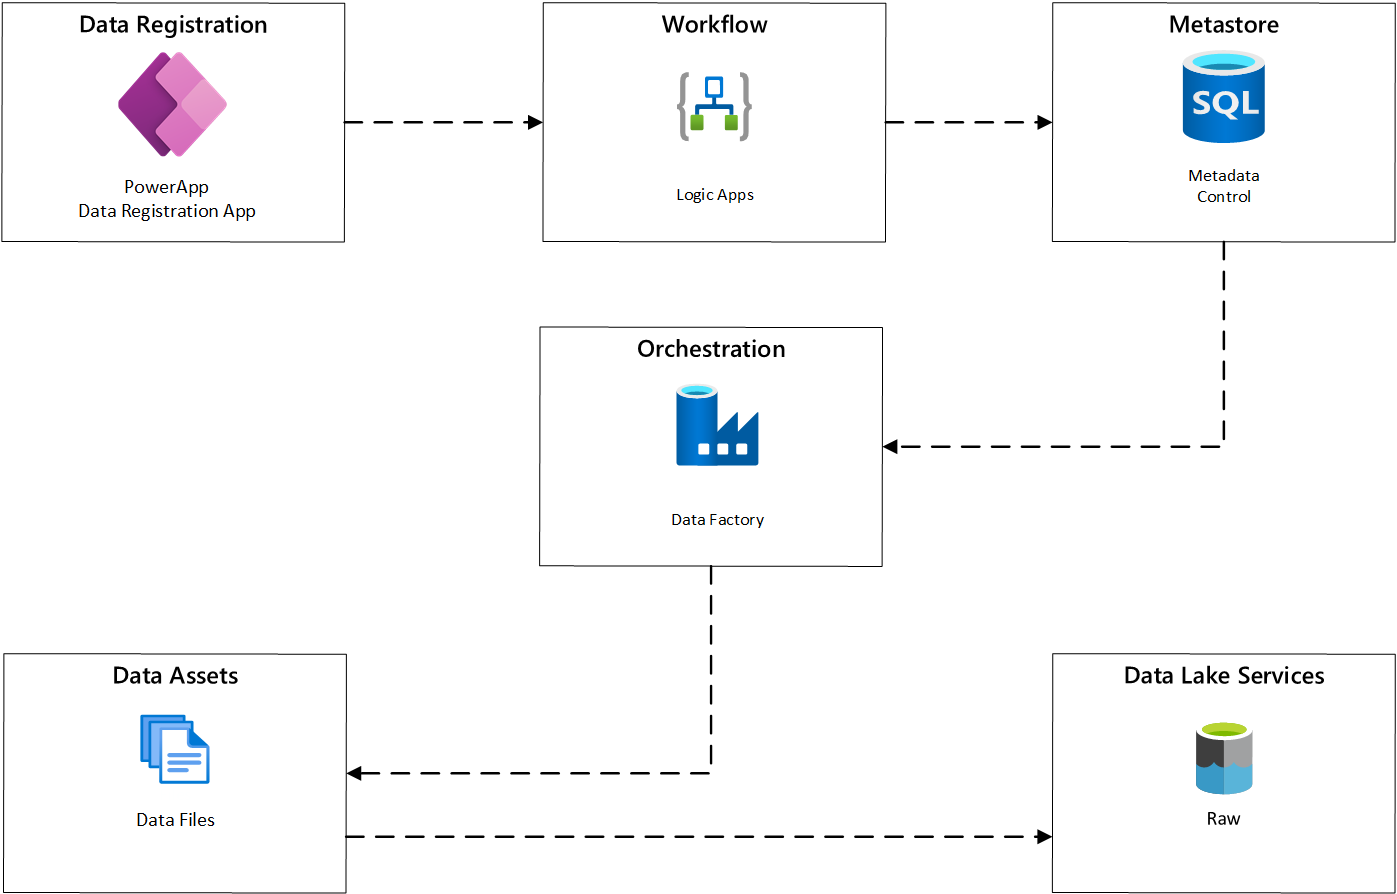
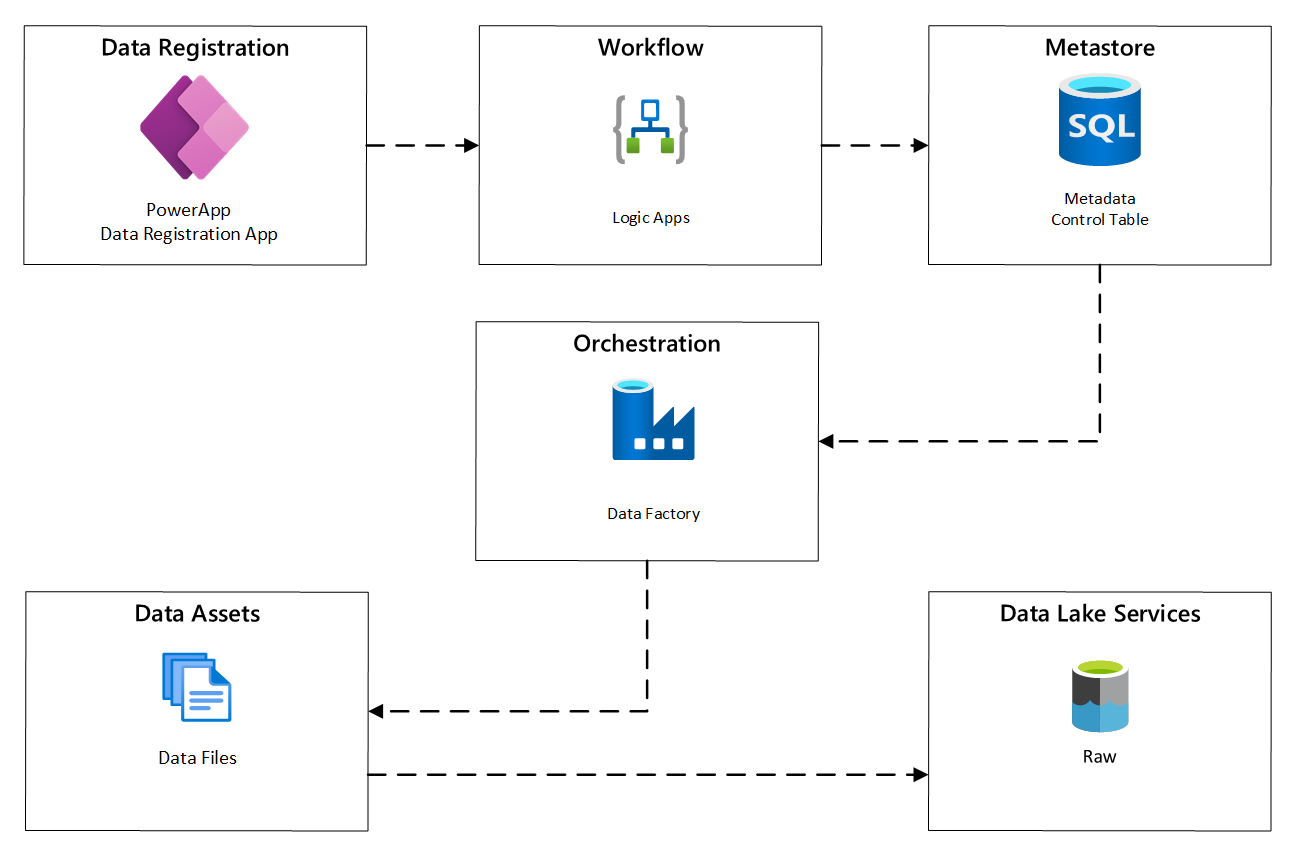
Updated page to include capabilities and example Azure service implementation

diff --git a/docs/scenarios/data-management/best-practices/automated-ingestion-pattern.md b/docs/scenarios/data-management/best-practices/automated-ingestion-pattern.md
@@ -21,26 +21,58 @@ This section discusses a design for how automated ingestion scenarios could be i
 Automated data ingestion scenarios are typically focused at enabling non-technical (that is, not Data Engineer) personas to publish data assets to a Data Lake so that further processing can occur. To implement this scenario requires onboarding capabilities enabling:
 
 - Data asset registration
-- Provisioning workflow
-- Metadata capture
-- Scheduling of orchestration / ingestion
+- Provisioning workflow / metadata capture
+- Scheduling of ingestion
 
 The interaction between the capabilities can be viewed as follows:
 
 ![Diagram of data registration capabilites interactions.](../images/registration-capabilities.png)
 
-The following illustrates how new data assets can be registered using a combination of Azure services:
+*Figure 1: Data registration capabilites interactions.*
+
+The following illustrates how this process can be implemented using a combination of Azure services:
 
 ![Diagram of an automated ingestion process.](../images/automated-ingestion-flow.png)
 
-[Metadata-driven copy tasks](/azure/data-factory/copy-data-tool-metadata-driven)
+*Figure 2: Automated ingestion process.*
 
-This information can be captured and written to a bespoke table within Dataverse
-The application can talk to an Azure Data Factory SQL Database metastore within each data landing zone to create new data sources and ingest them into data landing zones. Once ingestion requests are approved, it uses the Azure Purview REST API to insert the sources into Azure Purview.
+### Data asset registration
 
-The metadata triggers Data Factory jobs and will have most of the parameters required for running pipelines. A Data Factory master pipeline pulls parameters from the Data Factory SQL Database metastore to transfer data from the source into the data lake and enrich it with conformed data types before creating a table definition in the Azure Databricks Apache Hive metastore.
+Data asset registration is required to provide the metadata used to drive automated ingestion. The information captured should describe:
 
-For all job types (including indirect ingestion from sources like SAP), areas, and functions, the application should store the jobs' technical and operational metadata in a SQL database. Technical metadata can drive jobs because it has have most of the parameters required for this task. Data platform, data landing zone, and integration ops can use the metadata to:
+- Technical information: Data asset name, source system, type, format and frequency
+- Governance information: Owner, stewards, visibility (for discovery purposes) and sensitivity
+
+For the purposes of this article, PowerApps is used to capture metadata describing the data asset. A model-driven app is used by the person entering the information which is persisted to a custom Dataverse table. Once saved, further processing steps are invoked through an Automated Cloud Flow which is triggered when the metadata is either created or updated within Dataverse.
+
+![Diagram of an data asset registration.](../images/ingestion-step1-registration.png)
+
+*Figure 3: Data asset registration.*
+
+### Provisioning workflow / metadata capture
+
+The provisioning workflow stage is where the data collected in the registration stage is validated and persisted to the metastore. During this stage, both technical and business validation steps are performed including:
+
+- Validation of input data feed
+- Triggering of approval workflows
+- Processing logic to trigger persistence of metadata to the metadata store
+- Auditing activities
+
+![Diagram of registration workflow.](../images/ingestion-step2-workflow.png)
+
+*Figure 4: Registration workflow.*
+
+Once ingestion requests are approved, as part of the processing logic the workflow uses the Azure Purview REST API to insert the sources into Azure Purview.
+
+### Scheduling of ingestion
+
+Within Azure Data Factory, [metadata-driven copy tasks](/azure/data-factory/copy-data-tool-metadata-driven) provide functionality enabling orchestration pipelines to be driven by rows within a Control Table stored within Azure SQL Database. The Copy Data Tool can be used to pre-create metadata-driven pipelines. Once these have been created, the provisioning workflow adds entries to the Control Table to support ingestion from the sources identified in the data asset registration metadata. Both the Azure Data Factory pipelines and the Azure SQL Database containing the Control Table metastore can exist within each data landing zone to create new data sources and ingest them into data landing zones. 
+
+![Diagram of scheduling of data asset ingestion.](../images/ingestion-step3-orchestration.png)
+
+*Figure 5: Scheduling of data asset ingestion.*
+
+Data platform, data landing zone, and integration ops can use the captured  metadata to:
 
 - Track jobs and the latest data-loading timestamps for datasets related to their functions.
 - Track available datasets.
@@ -56,34 +88,9 @@ Operational metadata can be used to track:
 - Source metadata changes.
 - Business functions that depend on datasets.
 
-If the business needs operational reports and event notifications, data landing zone ops and integration ops can use Microsoft Power BI to query the SQL Database to build them.
+If the business needs operational reports and event notifications, data landing zone ops and integration ops can use Microsoft Power BI to query the Azure SQL Database Control Table and the underlying Azure Data Factory telemetry outputs to build them.
 
-## Register a new dataset (automated)
-
-Figure 2 recommends the following registration process for automating the ingestion of new data sources:
-
-![How new datasets are ingested (automated).](../images/new-dataset-ingestion.png)
-
-*Figure 2: How new datasets are ingested (automated).*
-
-Enterprises can use custom applications, Azure Logic Apps, or Microsoft Power Apps in the data management landing zone to enter data into the Data Factory metastore and gain the following benefits:
-
-- Source details are registered, including production and Data Factory environments.
-- Data shape, format, and quality constraints are captured.
-- Integration ops indicate if the data is **sensitive (Personal data)**, and this classification drives the process during which data lake folders are created to ingest raw and enriched data. The source names raw data, and the data asset names enriched and curated data.
-- Service principal and security groups are created for ingesting and giving access to the dataset.
-- An ingestion job is created in the data landing zone Data Factory metastore.
-- An API inserts the data definition into Azure Purview.
-- Details are validated and tested in development/testing environments.
-- Subject to the validation of the data source and approval by the ops team, details are published to a Data Factory metastore.
-
-## Ingest new data sources (automated)
-
-The following illustrates how registered data sources in a Data Factory SQL Database metastore are pulled and how data is ingested at first:
-
-![Diagram of how new data sources are ingested.](../images/new-datastore-ingestion.png)
-
-The Data Factory ingestion master pipeline reads configurations from a Data Factory SQL Database metastore and runs iteratively with the correct parameters. Data moves with little to no change from the source to the raw layer in Azure Data Lake. The data shape is validated based on the Data Factory metastore, and file formats are converted to either Apache Parquet or Avro formats before being copied into the enriched layer.
+The Azure Data Factory metadata-driven copy tasks read metadata entries from the Azure SQL Database Control Table and runs iteratively to ingest the data assets. Data moves with little to no change from the source to the raw layer in Azure Data Lake. Once landed within the raw layer, further processing can be involved where the data shape is validated, and file formats are converted to either Apache Parquet or Avro formats before being copied into the enriched layer.
 
 > [!TIP]
 > The Parquet format is recommended when the input/output (I/O) patterns are more read-heavy or when the query patterns focus on a subset of columns in the records where read transactions can be optimized to retrieve specific columns instead of reading the entire record.\
